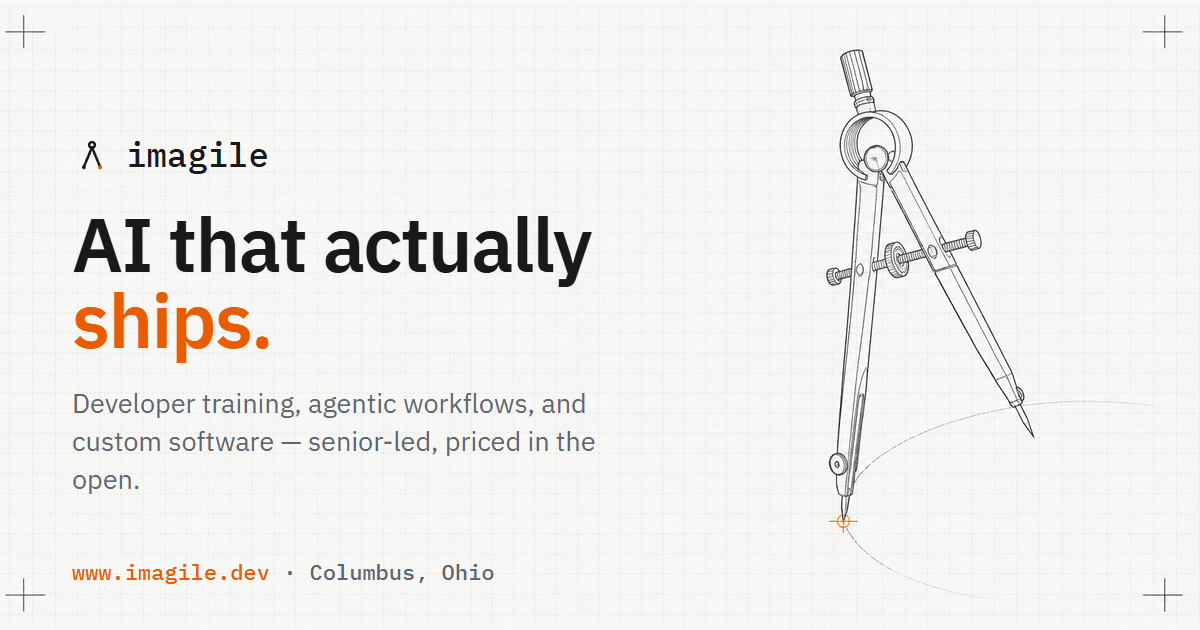
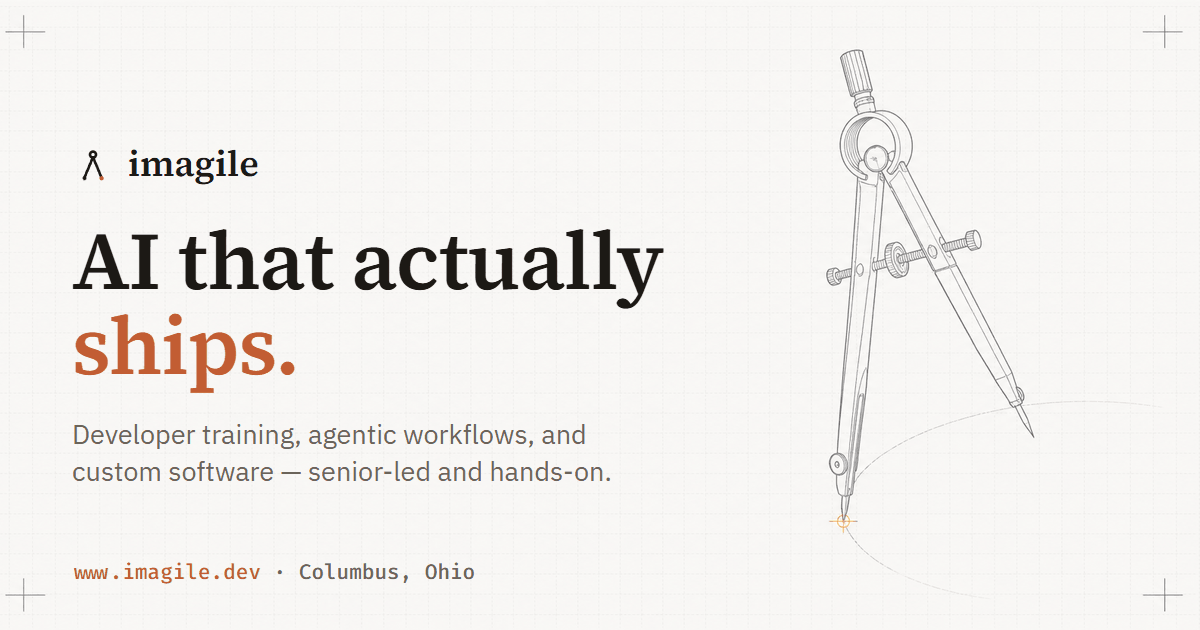
feat(rebrand): 🎨 warm editorial restyle, Fira Code, confident proof copy
"Workbench, refined" — the drafting-board bones stay, the finish warms up:

- Tokens: ivory paper (#faf8f4) and warm dark ground (#16130f),
  terracotta-leaning accent (#c25d33 / #e08356), softened corners
  (radius 8/12px), fainter grid
- Type: Source Serif 4 for display (h1–h3, wordmark), IBM Plex Sans
  stays for body, IBM Plex Mono fully replaced by Fira Code — and mono
  is now an accent voice only (labels, prices, stats); the nav and
  wordmark moved to sans/serif so the menu no longer reads as a
  terminal
- Favicon + OG image regenerated in the new palette, OG headline set
  in the serif with a warm wash over the banner art

Copy (drafted by subagents, proofread and adjusted by hand):

- Homepage hero no longer states the hourly rate — pricing stays on
  the service pages and cards, not in the site's opening line
- /work reframed from "no client list yet" confession to
  evidence-led: "A decade of shipped work. All of it checkable." —
  employer attribution stays honest via role/company names without
  the self-undermining disclaimers
- New fifth stat: engineering hours returned weekly by agentic
  workflows and self-healing systems at Verifiable (deliberately
  non-fabricated "Hours/wk" treatment — no invented figure)

Verified via playwright-cli: light/dark full-page passes on home,
work, developer-training, and a blog post; zero console/page errors.

diff --git a/src/styles/global.css b/src/styles/global.css
@@ -1,7 +1,9 @@
 /* ============================================================
-   Imagile — design tokens & base styles ("Workbench" direction)
-   Engineering-drafting aesthetic: fine grid, mono annotations,
-   sharp corners, one accent used the way a blueprint uses red ink.
+   Imagile — design tokens & base styles ("Workbench, refined")
+   The drafting-board bones stay — faint grid, measured spacing, one
+   accent — but the finish is warm and editorial: ivory paper, a serif
+   display face, terracotta-leaning accent, softened corners. Mono is
+   an accent voice (labels, prices), never the navigation.
    Dark mode is CSS-only via prefers-color-scheme — no toggle, no JS.
    ============================================================ */
 
@@ -10,20 +12,21 @@
 
 :root {
   /* ---- color: light (default) ---- */
-  --color-bg: #f6f7f6;
-  --color-surface: #ffffff;
-  --color-ink: #17191b;
-  --color-muted: #5c6670;
-  --color-accent: #e85d04;
+  --color-bg: #faf8f4;
+  --color-surface: #fffefb;
+  --color-ink: #1c1915;
+  --color-muted: #6b6459;
+  --color-accent: #c25d33;
   --color-accent-ink: #ffffff;
-  --color-line: rgba(23, 25, 27, 0.16);
-  --color-line-strong: rgba(23, 25, 27, 0.32);
-  --color-grid: rgba(23, 25, 27, 0.055);
+  --color-line: rgba(28, 25, 21, 0.14);
+  --color-line-strong: rgba(28, 25, 21, 0.3);
+  --color-grid: rgba(28, 25, 21, 0.045);
   --color-focus: #1b6fe0;
 
   /* ---- type ---- */
+  --font-display: 'Source Serif 4', Georgia, 'Times New Roman', serif;
   --font-body: 'IBM Plex Sans', system-ui, -apple-system, 'Segoe UI', sans-serif;
-  --font-mono: 'IBM Plex Mono', ui-monospace, 'SFMono-Regular', Menlo, monospace;
+  --font-mono: 'Fira Code', ui-monospace, 'SFMono-Regular', Menlo, monospace;
   --font-action: 'Archivo', var(--font-body);
 
   --text-xs: 0.75rem;
@@ -50,8 +53,8 @@
   --space-3xl: 8.5rem;
 
   /* ---- shape ---- */
-  --radius-sm: 2px;
-  --radius-md: 3px;
+  --radius-sm: 8px;
+  --radius-md: 12px;
   --grid-size: 24px;
   --max-width: 1180px;
   --measure: 62ch;
@@ -66,15 +69,15 @@
 
 @media (prefers-color-scheme: dark) {
   :root {
-    --color-bg: #0f1214;
-    --color-surface: #171b1e;
-    --color-ink: #e6e9eb;
-    --color-muted: #8b98a3;
-    --color-accent: #ff7a26;
-    --color-accent-ink: #0f1214;
-    --color-line: rgba(230, 233, 235, 0.16);
-    --color-line-strong: rgba(230, 233, 235, 0.3);
-    --color-grid: rgba(230, 233, 235, 0.05);
+    --color-bg: #16130f;
+    --color-surface: #201c17;
+    --color-ink: #ece7df;
+    --color-muted: #a89e91;
+    --color-accent: #e08356;
+    --color-accent-ink: #16130f;
+    --color-line: rgba(236, 231, 223, 0.15);
+    --color-line-strong: rgba(236, 231, 223, 0.28);
+    --color-grid: rgba(236, 231, 223, 0.04);
     --color-focus: #6fb2ff;
   }
 }
@@ -105,7 +108,15 @@ body {
 img, picture, svg { display: block; max-width: 100%; }
 a { color: inherit; text-decoration: none; }
 
-h1, h2, h3, h4 {
+h1, h2, h3 {
+  font-family: var(--font-display);
+  font-weight: 600;
+  letter-spacing: -0.005em;
+  line-height: var(--leading-tight);
+  text-wrap: balance;
+}
+
+h4 {
   font-family: var(--font-body);
   font-weight: 600;
   line-height: var(--leading-tight);
@@ -264,6 +275,7 @@ button, input, textarea, select {
 .card {
   position: relative;
   border: 1px solid var(--color-line);
+  border-radius: var(--radius-md);
   background: var(--color-surface);
   padding: var(--space-md);
 }
